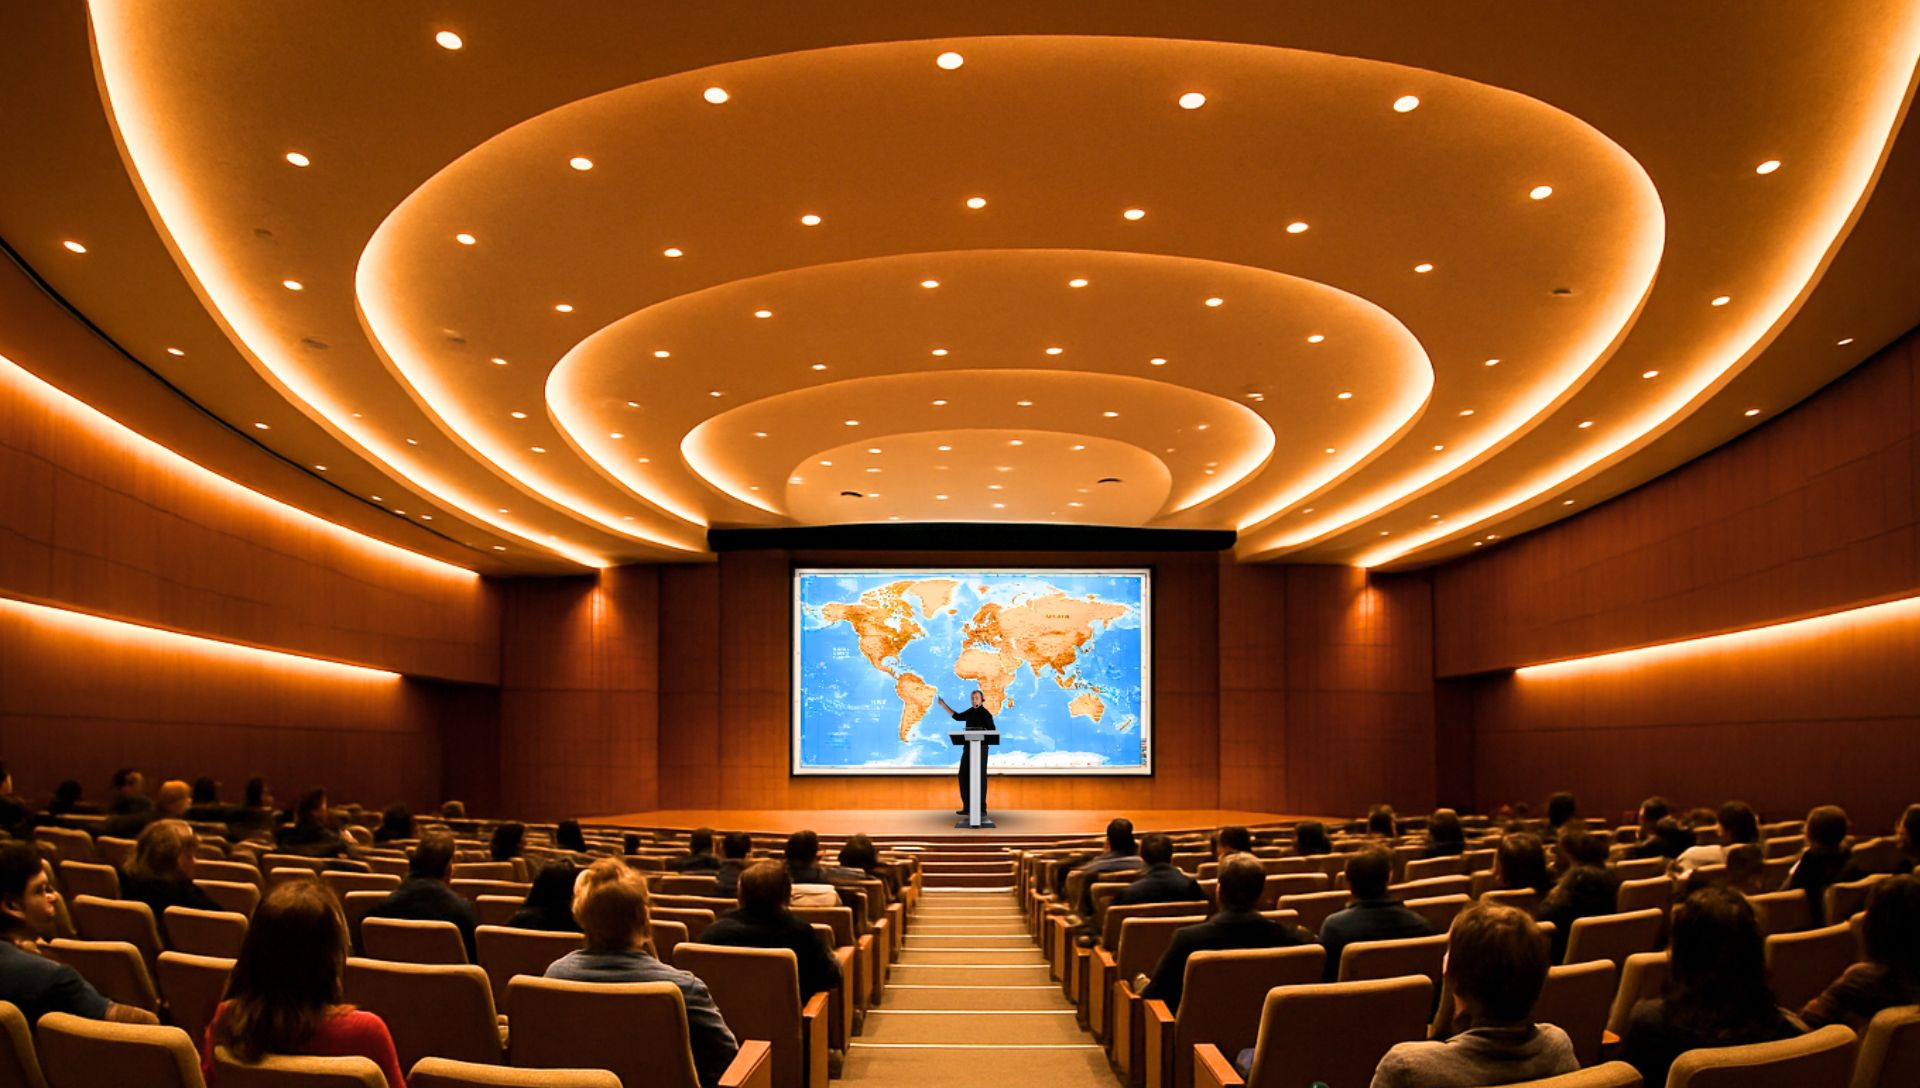
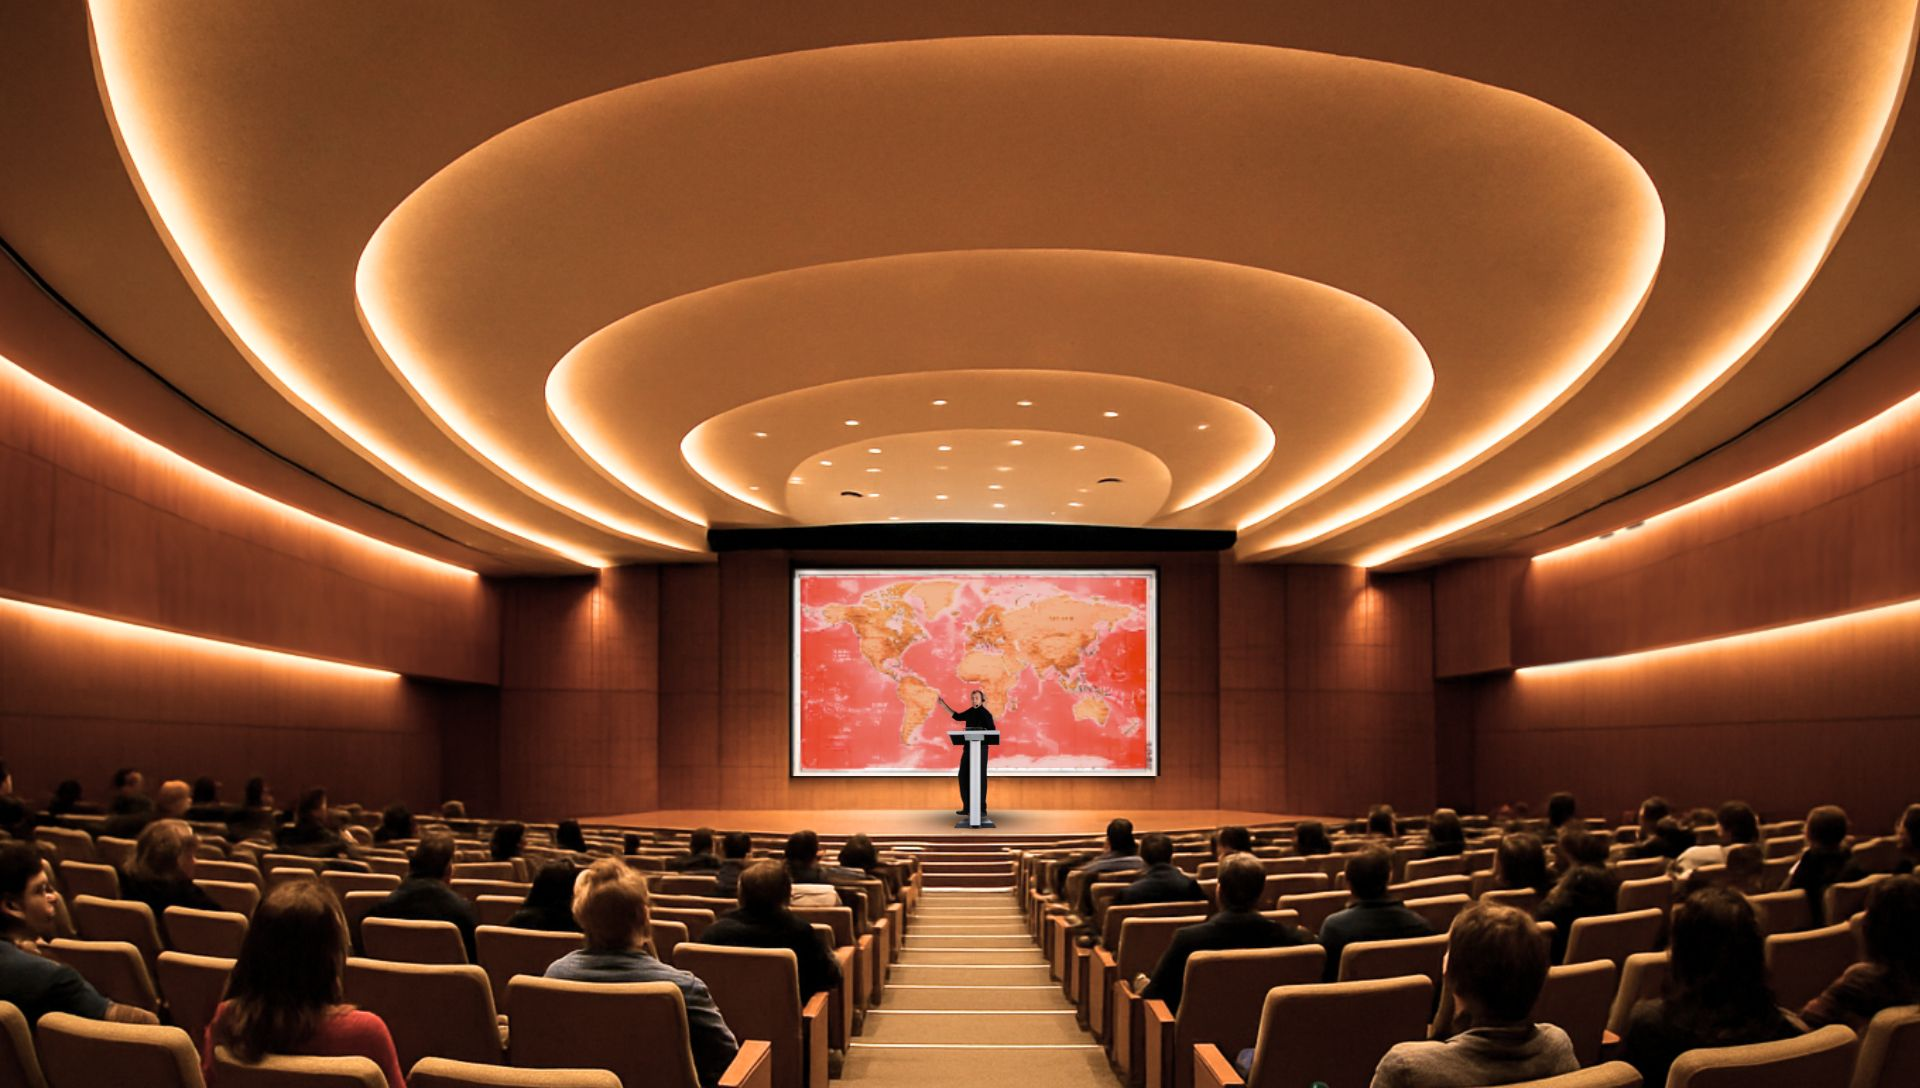
translate DE

diff --git a/de/simultan-uebersetzung-ki/index.html b/de/simultan-uebersetzung-ki/index.html
@@ -477,7 +477,7 @@ j=d.createElement(s),dl=l!='dataLayer'?'&l='+l:'';j.async=true;j.src=
 </header><!-- End Header -->
 
 <!-- ======= Hero Section ======= -->
-<section id="hero" style='background-image: url("../../assets/img/translate/bg-translate-1.webp");'>
+<section id="hero" style='background-image: url("../../assets/img/translate/bg-translate.webp");'>
     <div class="hero-container" data-aos="fade-up" data-aos-delay="150">
         <h1 class="display-4 display-md-2 display-lg-1">Simultanübersetzung per KI für Ihre Veranstaltungen</h1>
         <h3 style="color: white;">Keine Apps. Keine Dolmetscher. Keine Unterbrechungen.</h3><br/>

diff --git a/es/traduccion-simultanea-ia/index.html b/es/traduccion-simultanea-ia/index.html
@@ -423,7 +423,7 @@ j=d.createElement(s),dl=l!='dataLayer'?'&l='+l:'';j.async=true;j.src=
 
 
 <!-- ======= Hero Section ======= -->
-<section id="hero" style='background-image: url("../../assets/img/translate/bg-translate-1.webp");'>
+<section id="hero" style='background-image: url("../../assets/img/translate/bg-translate.webp");'>
     <div class="hero-container" data-aos="fade-up" data-aos-delay="150">
         <h1>Traducción automática en tiempo real para tus eventos</h1>
         <h3 style="color: white;">Sin aplicaciones. Sin intérpretes. Sin interrupciones.</h3><br />

diff --git a/ai-simultaneous-interpretation/index.html b/ai-simultaneous-interpretation/index.html
@@ -457,7 +457,7 @@ j=d.createElement(s),dl=l!='dataLayer'?'&l='+l:'';j.async=true;j.src=
 
 
 <!-- ======= Hero Section ======= -->
-<section id="hero" style='background-image: url("../assets/img/translate/bg-translate-1.webp");'>
+<section id="hero" style='background-image: url("../assets/img/translate/bg-translate.webp");'>
     <div class="hero-container" data-aos="fade-up" data-aos-delay="150">
         <h1>Instant Live Translation for Your Events</h1>
         <h3 style="color: white;">No Apps. No Interpreters. No Cutoffs.</h3><br>
